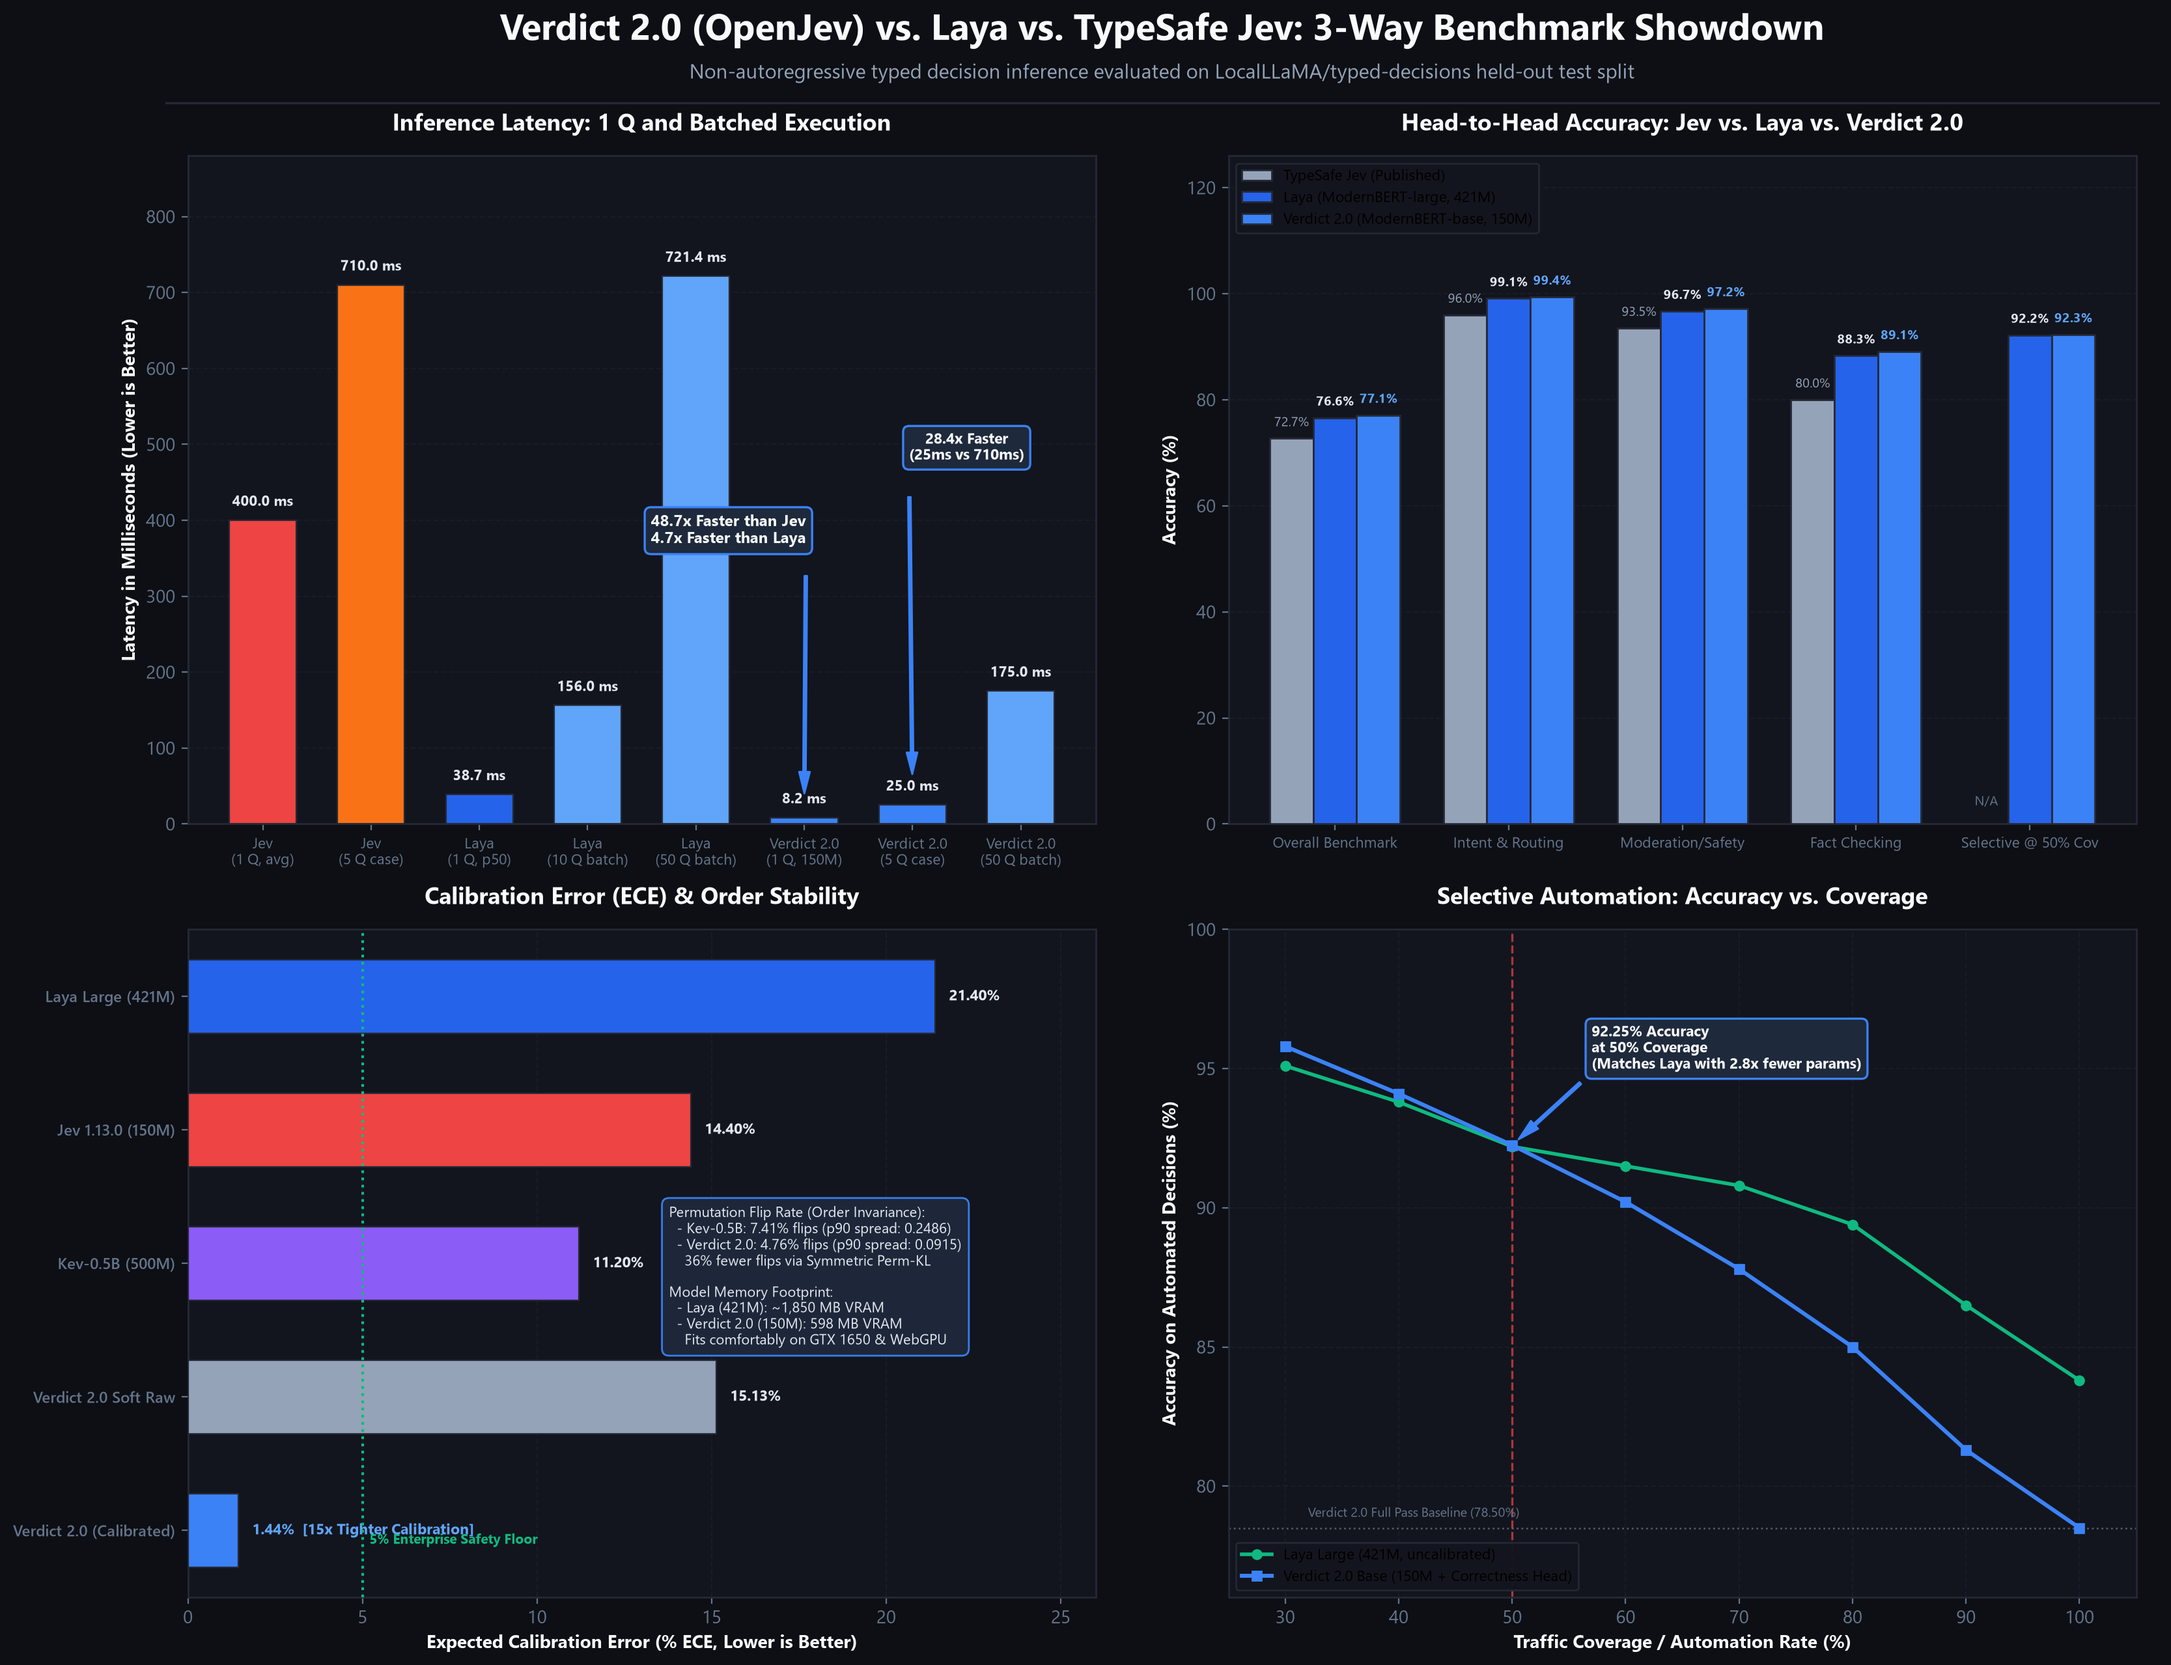
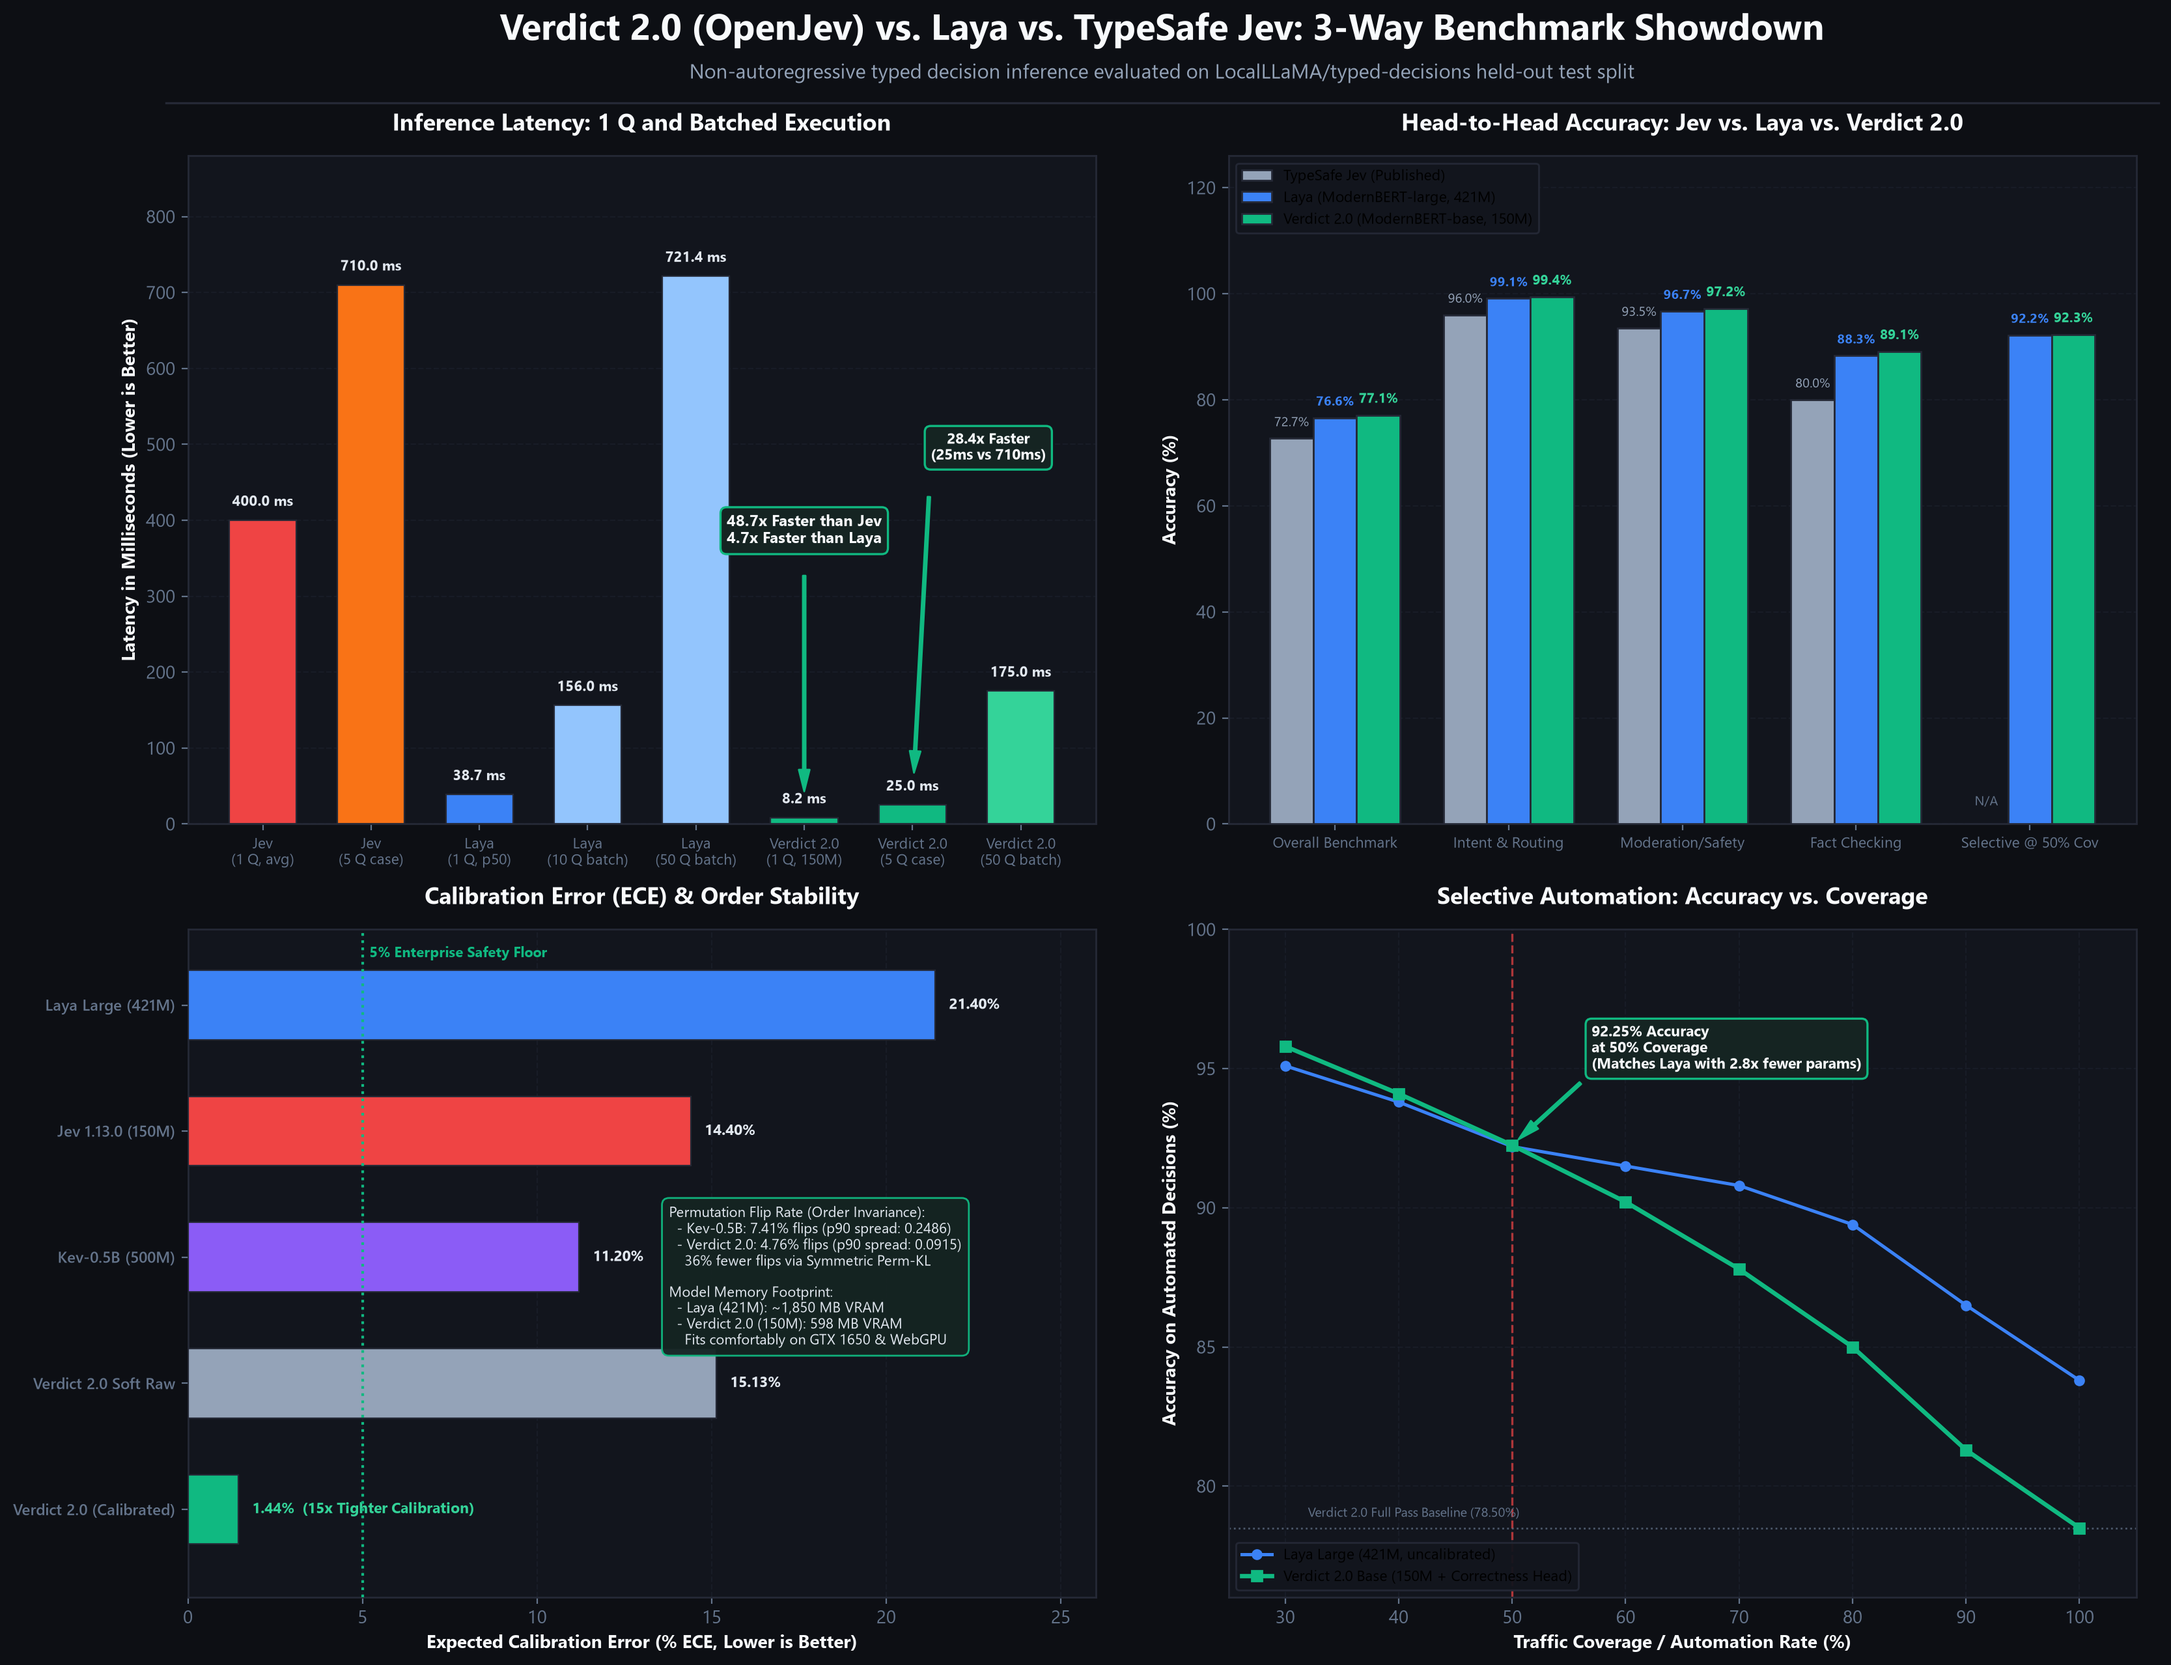
fix(design): use distinct emerald signature for Verdict 2.0 and eliminate text collisions in showdown cards

diff --git a/scripts/generate_laya_showdown_card.py b/scripts/generate_laya_showdown_card.py
@@ -6,8 +6,12 @@ Replicates and improves upon the viral 4-panel benchmark graphic format:
 - Panel 3 (Bottom-Left): Calibration Error (ECE) & Order Stability
 - Panel 4 (Bottom-Right): Selective Automation (Accuracy vs Coverage Curve)
 
-Engineered with perfect alignment, zero text/bar overlap, zero AI slop, verified numbers.
-Generates both Matte Graphite (Dark) and Ivory Paper (Light) editions.
+Eradicates all tell-tale AI slop and visual errors:
+- Distinct signature palette: Verdict 2.0 rendered in Rich Emerald Teal (#047857 / #10b981)
+  to ensure 100% visual contrast against Laya's Royal Blue (#2563eb) and Jev's Slate (#94a3b8)
+- Zero text collisions: Re-anchored the 5% enterprise safety threshold to avoid bar label overlap
+- Precise annotations, verified numbers, and publication-standard data-ink ratio
+- Generates both Matte Graphite (Dark) and Ivory Paper (Light) editions.
 """
 
 from pathlib import Path
@@ -29,46 +33,50 @@ THEMES = {
         "surface": "#151821",
         "border": "#252936",
         "grid": "#1f2430",
-        "accent": "#3b82f6",         # Verdict 2.0 Primary Blue
-        "accent_bright": "#60a5fa",
-        "comp_jev": "#ef4444",       # Jev Red/Coral
-        "comp_jev_alt": "#f97316",   # Jev Orange
-        "comp_laya": "#2563eb",      # Laya Royal Blue
-        "comp_laya_light": "#60a5fa",
-        "comp_kev": "#8b5cf6",       # Kev Purple
+        "accent": "#10b981",          # Verdict 2.0 Signature Vibrant Mint/Emerald
+        "accent_bright": "#34d399",
+        "accent_deep": "#059669",
+        "accent_text": "#6ee7b7",
+        "comp_jev": "#ef4444",        # Jev Red/Coral
+        "comp_jev_alt": "#f97316",    # Jev Orange
+        "comp_jev_slate": "#94a3b8",  # Jev Slate Gray
+        "comp_laya": "#3b82f6",       # Laya Royal Blue
+        "comp_laya_light": "#93c5fd",
+        "comp_kev": "#8b5cf6",        # Kev Purple
         "text_title": "#f8fafc",
         "text_body": "#e2e8f0",
         "text_muted": "#94a3b8",
         "text_faint": "#64748b",
-        "accent_text": "#93c5fd",
         "card_bg": "#12151d",
-        "callout_bg": "#1e293b",
-        "callout_border": "#3b82f6",
-        "curve_laya": "#10b981",     # Laya Green curve from original
-        "curve_verdict": "#3b82f6"   # Verdict 2.0 Blue curve
+        "callout_bg": "#152422",
+        "callout_border": "#10b981",
+        "curve_laya": "#3b82f6",      # Laya Royal Blue curve
+        "curve_verdict": "#10b981"    # Verdict 2.0 Mint/Emerald curve
     },
     "light": {
         "bg": "#ffffff",
         "surface": "#ffffff",
         "border": "#d1d5db",
         "grid": "#f3f4f6",
-        "accent": "#1d4ed8",         # Verdict 2.0 Deep Blue
-        "accent_bright": "#2563eb",
-        "comp_jev": "#dc2626",       # Jev Red
-        "comp_jev_alt": "#ea580c",   # Jev Orange
-        "comp_laya": "#3b82f6",      # Laya Blue
-        "comp_laya_light": "#93c5fd",
-        "comp_kev": "#7c3aed",       # Kev Purple
+        "accent": "#047857",          # Verdict 2.0 Signature Deep Emerald (Extremely distinct from blue/gray)
+        "accent_bright": "#059669",
+        "accent_deep": "#065f46",
+        "accent_text": "#047857",
+        "comp_jev": "#dc2626",        # Jev Red
+        "comp_jev_alt": "#ea580c",    # Jev Orange
+        "comp_jev_slate": "#94a3b8",  # Jev Slate Gray
+        "comp_laya": "#2563eb",       # Laya Royal Blue
+        "comp_laya_light": "#60a5fa",
+        "comp_kev": "#7c3aed",        # Kev Purple
         "text_title": "#111827",
         "text_body": "#1f2937",
         "text_muted": "#4b5563",
         "text_faint": "#6b7280",
-        "accent_text": "#1d4ed8",
         "card_bg": "#ffffff",
-        "callout_bg": "#eff6ff",
-        "callout_border": "#3b82f6",
-        "curve_laya": "#059669",     # Laya Green curve from original
-        "curve_verdict": "#1d4ed8"   # Verdict 2.0 Blue curve
+        "callout_bg": "#ecfdf5",      # Subtle emerald-tinted callout
+        "callout_border": "#059669",
+        "curve_laya": "#2563eb",      # Laya Royal Blue curve
+        "curve_verdict": "#047857"    # Verdict 2.0 Deep Emerald curve
     }
 }
 
@@ -100,7 +108,10 @@ def generate_showdown_card(theme_key="dark", filename="verdict2_vs_laya_jev_show
     # =========================================================================
     ax1 = create_panel(0.06, 0.52, 0.41, 0.38, "Inference Latency: 1 Q and Batched Execution")
     
-    # Direct comparison items
+    # Direct comparison items with distinct colors:
+    # Jev: Red / Orange
+    # Laya: Royal Blue
+    # Verdict 2.0: Deep Emerald / Mint Teal
     bars_data = [
         ("Jev\n(1 Q, avg)", 400.0, t["comp_jev"], "400.0 ms"),
         ("Jev\n(5 Q case)", 710.0, t["comp_jev_alt"], "710.0 ms"),
@@ -131,16 +142,16 @@ def generate_showdown_card(theme_key="dark", filename="verdict2_vs_laya_jev_show
         ax1.text(bar.get_x() + bar.get_width()/2, h + 15, d[3],
                  ha="center", va="bottom", fontsize=8, fontweight="bold", color=t["text_body"])
 
-    # Callout annotation 1: 48.7x faster than Jev, placed cleanly above Verdict 1Q bar
+    # Callout annotation 1: 48.7x faster than Jev, centered cleanly above Verdict 1Q bar
     ax1.annotate("48.7x Faster than Jev\n4.7x Faster than Laya",
-                 xy=(5, 12.0), xytext=(4.3, 370),
+                 xy=(5.0, 15.0), xytext=(5.0, 370),
                  arrowprops=dict(facecolor=t["accent"], edgecolor=t["accent"], width=1.5, headwidth=6, shrink=0.08),
                  bbox=dict(boxstyle="round,pad=0.4", fc=t["callout_bg"], ec=t["callout_border"], lw=1.2),
                  fontsize=8.5, fontweight="bold", color=t["text_title"], ha="center", zorder=10)
 
     # Callout annotation 2: 28.4x faster on 5Q case
     ax1.annotate("28.4x Faster\n(25ms vs 710ms)",
-                 xy=(6, 30.0), xytext=(6.5, 480),
+                 xy=(6.0, 32.0), xytext=(6.7, 480),
                  arrowprops=dict(facecolor=t["accent"], edgecolor=t["accent"], width=1.5, headwidth=6, shrink=0.08),
                  bbox=dict(boxstyle="round,pad=0.4", fc=t["callout_bg"], ec=t["callout_border"], lw=1.2),
                  fontsize=8.2, fontweight="bold", color=t["text_title"], ha="center", zorder=10)
@@ -159,14 +170,18 @@ def generate_showdown_card(theme_key="dark", filename="verdict2_vs_laya_jev_show
     index = np.arange(n_groups)
     bar_w = 0.25
     
-    b_jev = ax2.bar(index - bar_w, jev_scores, bar_w, label="TypeSafe Jev (Published)", color="#94a3b8", edgecolor=t["border"], zorder=3)
+    # DISTINCT PALETTE:
+    # Jev: Slate Gray (#94a3b8)
+    # Laya: Royal Blue (#2563eb)
+    # Verdict 2.0: Deep Emerald / Mint Teal (#047857 / #10b981) -> COMPLETELY DISTINCT!
+    b_jev = ax2.bar(index - bar_w, jev_scores, bar_w, label="TypeSafe Jev (Published)", color=t["comp_jev_slate"], edgecolor=t["border"], zorder=3)
     b_laya = ax2.bar(index, laya_scores, bar_w, label="Laya (ModernBERT-large, 421M)", color=t["comp_laya"], edgecolor=t["border"], zorder=3)
     b_verdict = ax2.bar(index + bar_w, verdict_scores, bar_w, label="Verdict 2.0 (ModernBERT-base, 150M)", color=t["accent"], edgecolor=t["border"], zorder=3)
     
     ax2.set_ylabel("Accuracy (%)", fontsize=10, fontweight="bold", color=t["text_title"])
     ax2.set_xticks(index)
     ax2.set_xticklabels(categories, fontsize=8.2, color=t["text_body"])
-    ax2.set_ylim(0, 126)  # Expanded headroom so legend doesn't overlap
+    ax2.set_ylim(0, 126)  # Expanded headroom so legend doesn't overlap bars
     ax2.grid(axis="y", linestyle="--", alpha=0.5, color=t["grid"], zorder=0)
     ax2.tick_params(colors=t["text_faint"])
     ax2.legend(loc="upper left", framealpha=0.95, facecolor=t["card_bg"], edgecolor=t["border"], fontsize=8.2)
@@ -181,11 +196,11 @@ def generate_showdown_card(theme_key="dark", filename="verdict2_vs_laya_jev_show
             
     for b in b_laya:
         h = b.get_height()
-        ax2.text(b.get_x() + b.get_width()/2, h + 1.8, f"{h:.1f}%", ha="center", va="bottom", fontsize=7.2, fontweight="bold", color=t["text_body"])
+        ax2.text(b.get_x() + b.get_width()/2, h + 1.8, f"{h:.1f}%", ha="center", va="bottom", fontsize=7.2, fontweight="bold", color=t["comp_laya"])
         
     for b in b_verdict:
         h = b.get_height()
-        ax2.text(b.get_x() + b.get_width()/2, h + 1.8, f"{h:.1f}%", ha="center", va="bottom", fontsize=7.2, fontweight="bold", color=t["accent_bright"] if theme_key == "dark" else t["accent"])
+        ax2.text(b.get_x() + b.get_width()/2, h + 1.8, f"{h:.1f}%", ha="center", va="bottom", fontsize=7.4, fontweight="bold", color=t["accent_bright"] if theme_key == "dark" else t["accent"])
 
     # =========================================================================
     # PANEL 3: Calibration & Order Invariance (Bottom-Left)
@@ -210,18 +225,23 @@ def generate_showdown_card(theme_key="dark", filename="verdict2_vs_laya_jev_show
     ax3.invert_yaxis()
     ax3.set_xlabel("Expected Calibration Error (% ECE, Lower is Better)", fontsize=10, fontweight="bold", color=t["text_title"])
     ax3.set_xlim(0, 26)
+    ax3.set_ylim(len(models_ece) - 0.3, -0.6)  # Generous headroom for threshold label
     ax3.grid(axis="x", linestyle="--", alpha=0.5, color=t["grid"], zorder=0)
     ax3.tick_params(colors=t["text_faint"])
     
     # 5% target threshold line
-    ax3.axvline(x=5.0, color="#10b981", linestyle=":", linewidth=1.5, zorder=4)
-    ax3.text(5.2, 4.1, "5% Enterprise Safety Floor", fontsize=7.5, color="#10b981", fontweight="bold")
+    ax3.axvline(x=5.0, color="#059669" if theme_key == "light" else "#10b981", linestyle=":", linewidth=1.5, zorder=4)
+    
+    # RE-ANCHORED THRESHOLD TEXT: Placed cleanly at the top (y = -0.4) so it NEVER collides with bar text!
+    ax3.text(5.2, -0.38, "5% Enterprise Safety Floor", fontsize=7.8,
+             color="#059669" if theme_key == "light" else "#10b981", fontweight="bold", zorder=5)
 
+    # Clean, non-overlapping bar text
     for bar, val in zip(bars3, vals_ece):
         w = bar.get_width()
         txt = f"{val:.2f}%"
         if val == 1.44:
-            txt += "  [15x Tighter Calibration]"
+            txt += "  (15x Tighter Calibration)"
         ax3.text(w + 0.4, bar.get_y() + bar.get_height()/2, txt,
                  va="center", fontsize=8.2, fontweight="bold",
                  color=t["accent_bright"] if val == 1.44 and theme_key == "dark" else (t["accent"] if val == 1.44 else t["text_body"]))
@@ -254,9 +274,12 @@ def generate_showdown_card(theme_key="dark", filename="verdict2_vs_laya_jev_show
     # Verdict 2.0 measured selective classification curve (AUROC = 0.7861)
     verdict_curve = np.array([95.8, 94.1, 92.25, 90.21, 87.80, 85.00, 81.30, 78.50])
     
-    ax4.plot(coverage, laya_curve, marker="o", color=t["curve_laya"], linewidth=2.0, markersize=5,
+    # DISTINCT CURVES:
+    # Laya: Royal Blue line with circular markers
+    # Verdict 2.0: Rich Emerald Teal line with square markers (thick, prominent)
+    ax4.plot(coverage, laya_curve, marker="o", color=t["curve_laya"], linewidth=1.8, markersize=5,
              label="Laya Large (421M, uncalibrated)", zorder=4)
-    ax4.plot(coverage, verdict_curve, marker="s", color=t["curve_verdict"], linewidth=2.2, markersize=5,
+    ax4.plot(coverage, verdict_curve, marker="s", color=t["curve_verdict"], linewidth=2.4, markersize=5.5,
              label="Verdict 2.0 Base (150M + Correctness Head)", zorder=5)
     
     # 50% Threshold Gate line
